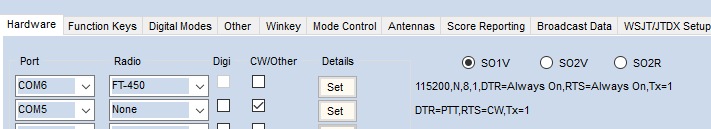
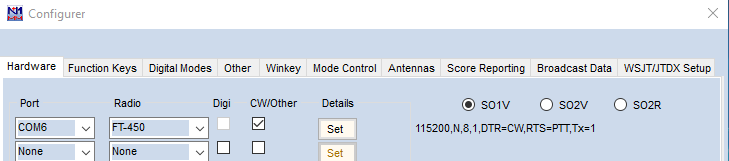
RTS/DTR update

diff --git a/STM32/Src/usbd_cat_if.c b/STM32/Src/usbd_cat_if.c
@@ -8,6 +8,7 @@
 #include "audio_filters.h"
 #include "wifi.h"
 #include "vad.h"
+#include "cw.h"
 
 #define CAT_APP_RX_DATA_SIZE 32
 #define CAT_APP_TX_DATA_SIZE 32
@@ -75,23 +76,18 @@ static int8_t CAT_Control_FS(uint8_t cmd, uint8_t *pbuf)
 	switch (cmd)
 	{
 	case CDC_SEND_ENCAPSULATED_COMMAND:
-
 		break;
 
 	case CDC_GET_ENCAPSULATED_RESPONSE:
-
 		break;
 
 	case CDC_SET_COMM_FEATURE:
-
 		break;
 
 	case CDC_GET_COMM_FEATURE:
-
 		break;
 
 	case CDC_CLEAR_COMM_FEATURE:
-
 		break;
 
 		/*******************************************************************************/
@@ -120,11 +116,25 @@ static int8_t CAT_Control_FS(uint8_t cmd, uint8_t *pbuf)
 		break;
 
 	case CDC_SET_CONTROL_LINE_STATE:
-
+		if ((pbuf[2] & 0x2) == 0x2) //RTS
+		{
+			TRX_ptt_soft = true;
+		}
+		else
+		{
+			TRX_ptt_soft = false;
+		}
+		if ((pbuf[2] & 0x1) == 0x1) //DTR
+		{
+			CW_key_serial = true;
+		}
+		else
+		{
+			CW_key_serial = false;
+		}
 		break;
 
 	case CDC_SEND_BREAK:
-
 		break;
 
 	default:

diff --git a/STM32/Src/usbd_debug_if.c b/STM32/Src/usbd_debug_if.c
@@ -109,16 +109,7 @@ static int8_t DEBUG_Control_FS(uint8_t cmd, uint8_t *pbuf, uint32_t len)
 		break;
 
 	case CDC_SET_CONTROL_LINE_STATE:
-		if (pbuf[2] == 1)
-		{
-			CW_key_serial = true;
-			//print("K");
-		}
-		else
-		{
-			CW_key_serial = false;
-			//print("N");
-		}
+
 		break;
 
 	case CDC_SEND_BREAK:

diff --git a/STM32/Src/settings.c b/STM32/Src/settings.c
@@ -11,7 +11,7 @@
 #include "bands.h"
 #include "front_unit.h"
 
-char version_string[19] = "2.9.0"; //1.2.3-yymmdd.hhmm (concatinate)
+char version_string[19] = "2.9.1"; //1.2.3-yymmdd.hhmm (concatinate)
 
 //W25Q16
 IRAM2 static uint8_t Write_Enable = W25Q16_COMMAND_Write_Enable;

diff --git a/README.ru-RU.md b/README.ru-RU.md
@@ -38,7 +38,7 @@ I и Q квадратурные сигналы, полученные в ходе
 * Отключаемое АРУ (AGC) с регулируемой скоростью атаки
 * Карта диапазонов, с возможностью автоматического переключения моды
 * Цифровое уменьшение шумов (DNR), подавитель импульсных помех (NB)
-* CAT/PTT виртуальные COM-порты (эмуляция FT-450)
+* CAT виртуальный COM-порт (эмуляция FT-450, RTS - PTT, DTR - CW)
 * Работа по USB (передача звука, CAT, KEY, PTT)
 * RDS/CW/RTTY декодер, самоконтроль, гаусс-фильтр
 * Построение графиков КСВ по диапазонам

diff --git a/README.md b/README.md
@@ -40,7 +40,7 @@ When transmitting, the process occurs in the opposite order, only at the end of 
 * Switchable AGC (AGC) with adjustable attack rate
 * Range map, with the ability to automatically switch modes
 * Digital Noise Reduction (DNR), Pulse Noise Reduction (NB)
-* CAT / PTT virtual COM ports (FT-450 emulation)
+* CAT virtual COM port (FT-450 emulation, RTS - PTT, DTR - CW)
 * USB operation (audio transmission, CAT, KEY, PTT)
 * RDS/CW/RTTY decoder, self-control, gauss filter
 * SWR Graphs
